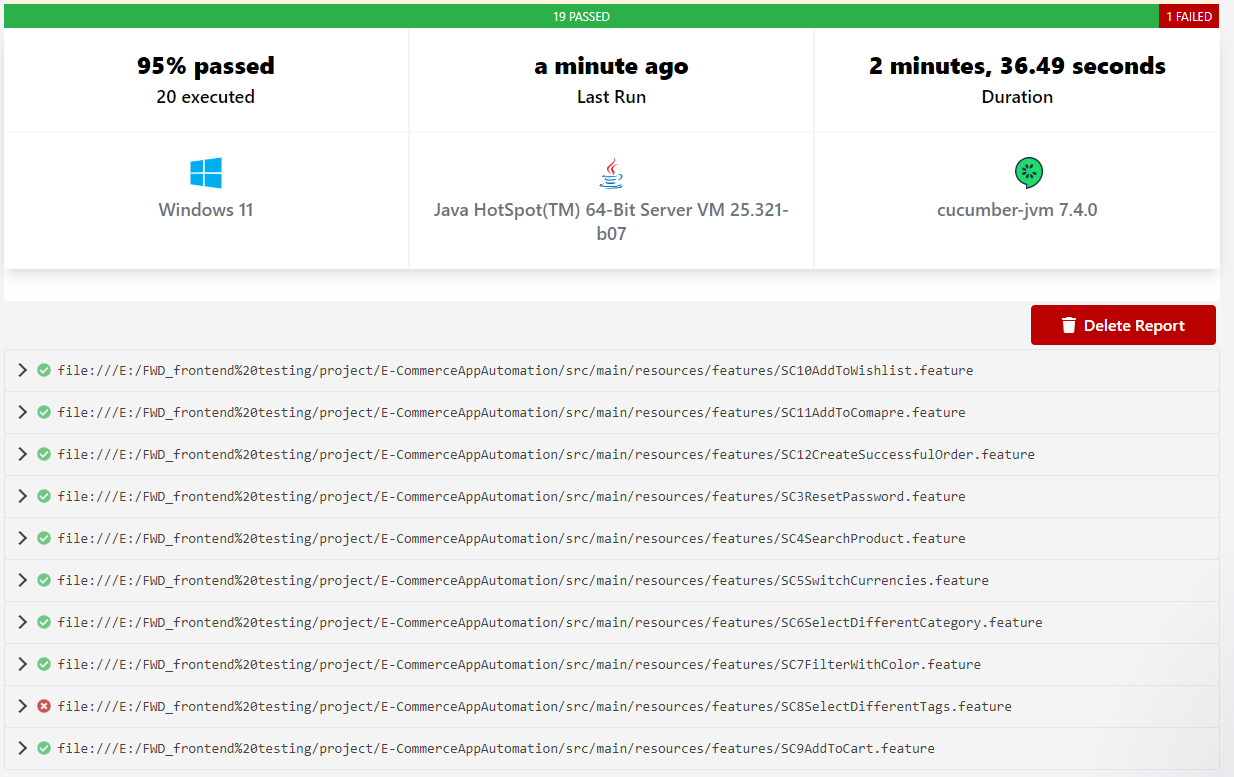
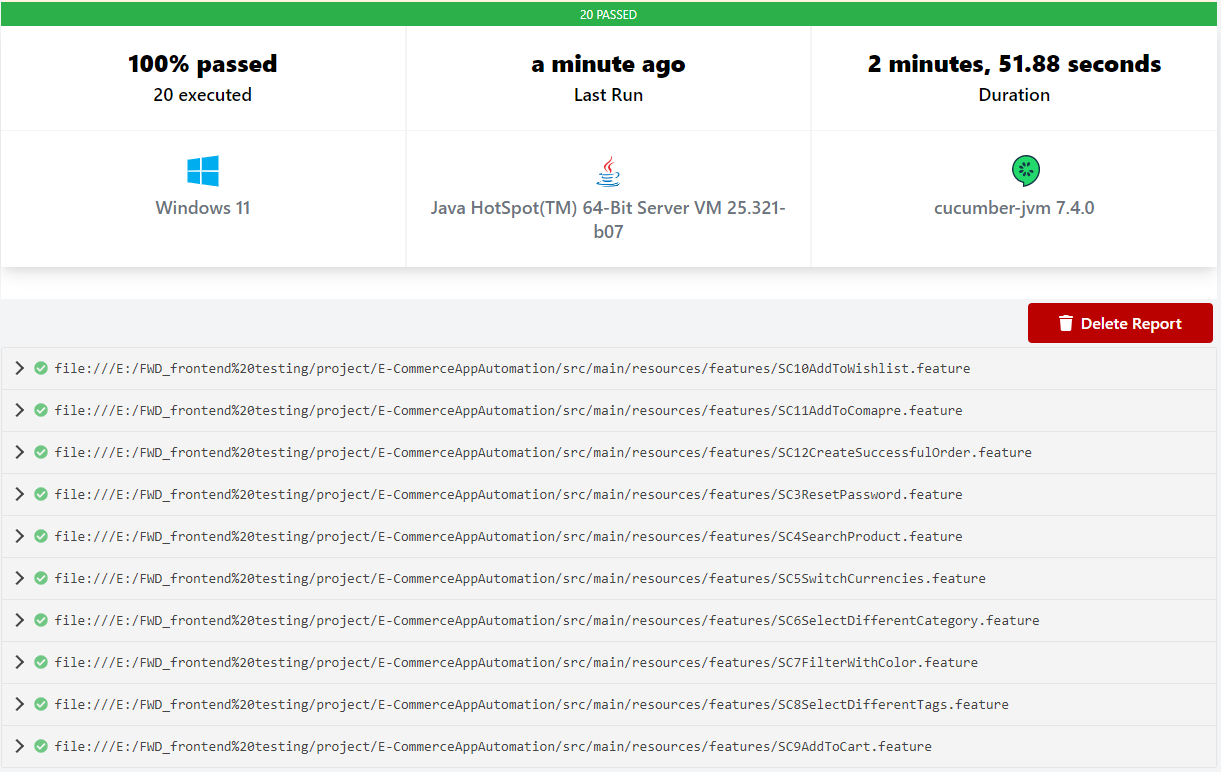
report added

diff --git a/src/test/java/stepDefinitions/SelectDifferentTagStepDefinition.java b/src/test/java/stepDefinitions/SelectDifferentTagStepDefinition.java
@@ -37,7 +37,7 @@ public class SelectDifferentTagStepDefinition {
         logger = LoggerFactory.getLogger(SelectDifferentTagStepDefinition.class);
         logger.info("Select Product Tag Result:");
 
-        String expectedUrl = "https://demo.nopcommerce.com/producttag/apparel-2";
+        String expectedUrl = "https://demo.nopcommerce.com/apparel-2";
 
         Assert.assertEquals("Selected product tag error!",
                 expectedUrl,
